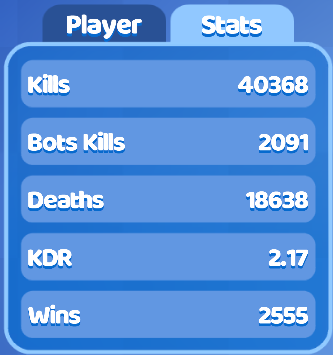
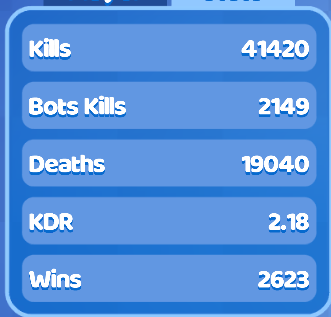
Added K1ittens. Updated ProMaster.

diff --git a/index.html b/index.html
@@ -147,11 +147,11 @@
             <div class="number color1">15.</div>
             <div class="box color1"><a href="Images/Screenshots/ProMaster.png" class="lightbox_trigger"><i class="fas fa-camera"></i></a></div>
             <div class="name color1">ProMaster</div>
-            <div class="box color1">2.17</div>
-            <div class="box color1">40,368</div>
-            <div class="box color1">2,091</div>
-            <div class="box color1">18,638</div>
-            <div class="box color1">2,555</div>
+            <div class="box color1">2.18</div>
+            <div class="box color1">40,420</div>
+            <div class="box color1">2,149</div>
+            <div class="box color1">19,040</div>
+            <div class="box color1">2,623</div>
 
             <div class="number color2">16.</div>
             <div class="box color2"><a href="Images/Screenshots/TomCruise.png" class="lightbox_trigger"><i class="fas fa-camera"></i></a></div>
@@ -208,196 +208,205 @@
             <div class="box color1">1,271</div>
 
             <div class="number color2">22.</div>
-            <div class="box color2"><a href="Images/Screenshots/bhol.png" class="lightbox_trigger"><i class="fas fa-camera"></i></a></div>
-            <div class="name color2">bhol</div>
-            <div class="box color2">1.66</div>
-            <div class="box color2">19,412</div>
-            <div class="box color2">1,784</div>
-            <div class="box color2">11,716</div>
-            <div class="box color2">1,305</div>
+            <div class="box color2"><a href="Images/Screenshots/K1ittens.png" class="lightbox_trigger"><i class="fas fa-camera"></i></a></div>
+            <div class="name color2">K1ittens</div>
+            <div class="box color2">1.67</div>
+            <div class="box color2">9,491</div>
+            <div class="box color2">803</div>
+            <div class="box color2">5,699</div>
+            <div class="box color2">519</div>
 
             <div class="number color1">23.</div>
-            <div class="box color1"><a href="Images/Screenshots/NONAME.png" class="lightbox_trigger"><i class="fas fa-camera"></i></a></div>
-            <div class="name color1">NONAME</div>
-            <div class="box color1">1.65</div>
-            <div class="box color1">3,413</div>
-            <div class="box color1">276</div>
-            <div class="box color1">2,064</div>
-            <div class="box color1">246</div>
+            <div class="box color1"><a href="Images/Screenshots/bhol.png" class="lightbox_trigger"><i class="fas fa-camera"></i></a></div>
+            <div class="name color1">bhol</div>
+            <div class="box color1">1.66</div>
+            <div class="box color1">19,412</div>
+            <div class="box color1">1,784</div>
+            <div class="box color1">11,716</div>
+            <div class="box color1">1,305</div>
 
             <div class="number color2">24.</div>
-            <div class="box color2"><a href="Images/Screenshots/BAM'erica.png" class="lightbox_trigger"><i class="fas fa-camera"></i></a></div>
-            <div class="name color2">BAM'erica</div>
-            <div class="box color2">1.64</div>
-            <div class="box color2">10,000</div>
-            <div class="box color2">560</div>
-            <div class="box color2">6,111</div>
-            <div class="box color2">252</div>
+            <div class="box color2"><a href="Images/Screenshots/NONAME.png" class="lightbox_trigger"><i class="fas fa-camera"></i></a></div>
+            <div class="name color2">NONAME</div>
+            <div class="box color2">1.65</div>
+            <div class="box color2">3,413</div>
+            <div class="box color2">276</div>
+            <div class="box color2">2,064</div>
+            <div class="box color2">246</div>
 
             <div class="number color1">25.</div>
-            <div class="box color1"><a href="Images/Screenshots/golu.png" class="lightbox_trigger"><i class="fas fa-camera"></i></a></div>
-            <div class="name color1">golu</div>
-            <div class="box color1">1.63</div>
-            <div class="box color1">22,268</div>
-            <div class="box color1">1,477</div>
-            <div class="box color1">13,637</div>
-            <div class="box color1">1,468</div>
+            <div class="box color1"><a href="Images/Screenshots/BAM'erica.png" class="lightbox_trigger"><i class="fas fa-camera"></i></a></div>
+            <div class="name color1">BAM'erica</div>
+            <div class="box color1">1.64</div>
+            <div class="box color1">10,000</div>
+            <div class="box color1">560</div>
+            <div class="box color1">6,111</div>
+            <div class="box color1">252</div>
 
             <div class="number color2">26.</div>
-            <div class="box color2"><a href="Images/Screenshots/Avikatron.png" class="lightbox_trigger"><i class="fas fa-camera"></i></a></div>
-            <div class="name color2">Avikatron</div>
-            <div class="box color2">1.58</div>
-            <div class="box color2">1,054</div>
-            <div class="box color2">11</div>
-            <div class="box color2">666</div>
-            <div class="box color2">48</div>
+            <div class="box color2"><a href="Images/Screenshots/golu.png" class="lightbox_trigger"><i class="fas fa-camera"></i></a></div>
+            <div class="name color2">golu</div>
+            <div class="box color2">1.63</div>
+            <div class="box color2">22,268</div>
+            <div class="box color2">1,477</div>
+            <div class="box color2">13,637</div>
+            <div class="box color2">1,468</div>
 
             <div class="number color1">27.</div>
-            <div class="box color1"><a href="Images/Screenshots/Drew.png" class="lightbox_trigger"><i class="fas fa-camera"></i></a></div>
-            <div class="name color1">Drew</div>
-            <div class="box color1">1.57</div>
-            <div class="box color1">9,234</div>
-            <div class="box color1">430</div>
-            <div class="box color1">5,891</div>
-            <div class="box color1">549</div>
+            <div class="box color1"><a href="Images/Screenshots/Avikatron.png" class="lightbox_trigger"><i class="fas fa-camera"></i></a></div>
+            <div class="name color1">Avikatron</div>
+            <div class="box color1">1.58</div>
+            <div class="box color1">1,054</div>
+            <div class="box color1">11</div>
+            <div class="box color1">666</div>
+            <div class="box color1">48</div>
 
             <div class="number color2">28.</div>
-            <div class="box color2"><a href="Images/Screenshots/seanysean.png" class="lightbox_trigger"><i class="fas fa-camera"></i></a></div>
-            <div class="name color2">seanysean</div>
-            <div class="box color2">1.55</div>
-            <div class="box color2">14,977</div>
-            <div class="box color2">489</div>
-            <div class="box color2">9,673</div>
-            <div class="box color2">746</div>
+            <div class="box color2"><a href="Images/Screenshots/Drew.png" class="lightbox_trigger"><i class="fas fa-camera"></i></a></div>
+            <div class="name color2">Drew</div>
+            <div class="box color2">1.57</div>
+            <div class="box color2">9,234</div>
+            <div class="box color2">430</div>
+            <div class="box color2">5,891</div>
+            <div class="box color2">549</div>
 
             <div class="number color1">29.</div>
-            <div class="box color1"><a href="Images/Screenshots/Junini.png" class="lightbox_trigger"><i class="fas fa-camera"></i></a></div>
-            <div class="name color1">Junini</div>
-            <div class="box color1">1.48</div>
-            <div class="box color1">24,166</div>
-            <div class="box color1">4,675</div>
-            <div class="box color1">16,366</div>
-            <div class="box color1">801</div>
+            <div class="box color1"><a href="Images/Screenshots/seanysean.png" class="lightbox_trigger"><i class="fas fa-camera"></i></a></div>
+            <div class="name color1">seanysean</div>
+            <div class="box color1">1.55</div>
+            <div class="box color1">14,977</div>
+            <div class="box color1">489</div>
+            <div class="box color1">9,673</div>
+            <div class="box color1">746</div>
 
             <div class="number color2">30.</div>
-            <div class="box color2"><a href="Images/Screenshots/SombreroCat1.png" class="lightbox_trigger"><i class="fas fa-camera"></i></a></div>
-            <div class="name color2">SombreroCat1</div>
+            <div class="box color2"><a href="Images/Screenshots/Junini.png" class="lightbox_trigger"><i class="fas fa-camera"></i></a></div>
+            <div class="name color2">Junini</div>
             <div class="box color2">1.48</div>
-            <div class="box color2">3,402</div>
-            <div class="box color2">567</div>
-            <div class="box color2">2,298</div>
-            <div class="box color2">243</div>
+            <div class="box color2">24,166</div>
+            <div class="box color2">4,675</div>
+            <div class="box color2">16,366</div>
+            <div class="box color2">801</div>
 
             <div class="number color1">31.</div>
-            <div class="box color1"><a href="Images/Screenshots/Manush.png" class="lightbox_trigger"><i class="fas fa-camera"></i></a></div>
-            <div class="name color1">Manush</div>
-            <div class="box color1">1.44</div>
-            <div class="box color1">1,655</div>
-            <div class="box color1">6</div>
-            <div class="box color1">1,147</div>
-            <div class="box color1">45</div>
+            <div class="box color1"><a href="Images/Screenshots/SombreroCat1.png" class="lightbox_trigger"><i class="fas fa-camera"></i></a></div>
+            <div class="name color1">SombreroCat1</div>
+            <div class="box color1">1.48</div>
+            <div class="box color1">3,402</div>
+            <div class="box color1">567</div>
+            <div class="box color1">2,298</div>
+            <div class="box color1">243</div>
 
             <div class="number color2">32.</div>
-            <div class="box color2"><a href="Images/Screenshots/Prince of Darkness.png" class="lightbox_trigger"><i class="fas fa-camera"></i></a></div>
-            <div class="name color2">Prince of Darkness</div>
-            <div class="box color2">1.42</div>
-            <div class="box color2">2,612</div>
-            <div class="box color2">231</div>
-            <div class="box color2">1,835</div>
-            <div class="box color2">104</div>
+            <div class="box color2"><a href="Images/Screenshots/Manush.png" class="lightbox_trigger"><i class="fas fa-camera"></i></a></div>
+            <div class="name color2">Manush</div>
+            <div class="box color2">1.44</div>
+            <div class="box color2">1,655</div>
+            <div class="box color2">6</div>
+            <div class="box color2">1,147</div>
+            <div class="box color2">45</div>
 
             <div class="number color1">33.</div>
-            <div class="box color1"><a href="Images/Screenshots/IcyPro.png" class="lightbox_trigger"><i class="fas fa-camera"></i></a></div>
-            <div class="name color1">IcyPro</div>
-            <div class="box color1">1.31</div>
-            <div class="box color1">14,975</div>
-            <div class="box color1">997</div>
-            <div class="box color1">11,404</div>
-            <div class="box color1">922</div>
+            <div class="box color1"><a href="Images/Screenshots/Prince of Darkness.png" class="lightbox_trigger"><i class="fas fa-camera"></i></a></div>
+            <div class="name color1">Prince of Darkness</div>
+            <div class="box color1">1.42</div>
+            <div class="box color1">2,612</div>
+            <div class="box color1">231</div>
+            <div class="box color1">1,835</div>
+            <div class="box color1">104</div>
 
             <div class="number color2">34.</div>
-            <div class="box color2"><a href="Images/Screenshots/ZePiggman.png" class="lightbox_trigger"><i class="fas fa-camera"></i></a></div>
-            <div class="name color2">ZePiggman</div>
+            <div class="box color2"><a href="Images/Screenshots/IcyPro.png" class="lightbox_trigger"><i class="fas fa-camera"></i></a></div>
+            <div class="name color2">IcyPro</div>
             <div class="box color2">1.31</div>
-            <div class="box color2">4,880</div>
-            <div class="box color2">110</div>
-            <div class="box color2">3,726</div>
-            <div class="box color2">256</div>
+            <div class="box color2">14,975</div>
+            <div class="box color2">997</div>
+            <div class="box color2">11,404</div>
+            <div class="box color2">922</div>
 
             <div class="number color1">35.</div>
-            <div class="box color1"><a href="Images/Screenshots/KI123NG.png" class="lightbox_trigger"><i class="fas fa-camera"></i></a></div>
-            <div class="name color1">KI123NG</div>
-            <div class="box color1">1.30</div>
-            <div class="box color1">4,894</div>
-            <div class="box color1">118</div>
-            <div class="box color1">3,765</div>
-            <div class="box color1">217</div>
+            <div class="box color1"><a href="Images/Screenshots/ZePiggman.png" class="lightbox_trigger"><i class="fas fa-camera"></i></a></div>
+            <div class="name color1">ZePiggman</div>
+            <div class="box color1">1.31</div>
+            <div class="box color1">4,880</div>
+            <div class="box color1">110</div>
+            <div class="box color1">3,726</div>
+            <div class="box color1">256</div>
 
             <div class="number color2">36.</div>
-            <div class="box color2"><a href="Images/Screenshots/Supremo.png" class="lightbox_trigger"><i class="fas fa-camera"></i></a></div>
-            <div class="name color2">Supremo</div>
-            <div class="box color2">1.22</div>
-            <div class="box color2">6,464</div>
-            <div class="box color2">784</div>
-            <div class="box color2">5,316</div>
-            <div class="box color2">451</div>
+            <div class="box color2"><a href="Images/Screenshots/KI123NG.png" class="lightbox_trigger"><i class="fas fa-camera"></i></a></div>
+            <div class="name color2">KI123NG</div>
+            <div class="box color2">1.30</div>
+            <div class="box color2">4,894</div>
+            <div class="box color2">118</div>
+            <div class="box color2">3,765</div>
+            <div class="box color2">217</div>
 
             <div class="number color1">37.</div>
-            <div class="box color1"><a href="Images/Screenshots/Shamrock Pig.png" class="lightbox_trigger"><i class="fas fa-camera"></i></a></div>
-            <div class="name color1">Shamrock Pig</div>
-            <div class="box color1">1.17</div>
-            <div class="box color1">2,417</div>
-            <div class="box color1">170</div>
-            <div class="box color1">2,066</div>
-            <div class="box color1">124</div>
+            <div class="box color1"><a href="Images/Screenshots/Supremo.png" class="lightbox_trigger"><i class="fas fa-camera"></i></a></div>
+            <div class="name color1">Supremo</div>
+            <div class="box color1">1.22</div>
+            <div class="box color1">6,464</div>
+            <div class="box color1">784</div>
+            <div class="box color1">5,316</div>
+            <div class="box color1">451</div>
 
             <div class="number color2">38.</div>
-            <div class="box color2"><a href="Images/Screenshots/Sub2PewDiePie.png" class="lightbox_trigger"><i class="fas fa-camera"></i></a></div>
-            <div class="name color2">Sub2PewDiePie</div>
-            <div class="box color2">1.15</div>
-            <div class="box color2">1,642</div>
-            <div class="box color2">74</div>
-            <div class="box color2">1,422</div>
-            <div class="box color2">53</div>
+            <div class="box color2"><a href="Images/Screenshots/Shamrock Pig.png" class="lightbox_trigger"><i class="fas fa-camera"></i></a></div>
+            <div class="name color2">Shamrock Pig</div>
+            <div class="box color2">1.17</div>
+            <div class="box color2">2,417</div>
+            <div class="box color2">170</div>
+            <div class="box color2">2,066</div>
+            <div class="box color2">124</div>
 
             <div class="number color1">39.</div>
-            <div class="box color1"><a href="Images/Screenshots/Victory Valtryek.png" class="lightbox_trigger"><i class="fas fa-camera"></i></a></div>
-            <div class="name color1">Victory Valtryek</div>
-            <div class="box color1">1.14</div>
-            <div class="box color1">1,946</div>
-            <div class="box color1">257</div>
-            <div class="box color1">1,709</div>
-            <div class="box color1">89</div>
+            <div class="box color1"><a href="Images/Screenshots/Sub2PewDiePie.png" class="lightbox_trigger"><i class="fas fa-camera"></i></a></div>
+            <div class="name color1">Sub2PewDiePie</div>
+            <div class="box color1">1.15</div>
+            <div class="box color1">1,642</div>
+            <div class="box color1">74</div>
+            <div class="box color1">1,422</div>
+            <div class="box color1">53</div>
 
             <div class="number color2">40.</div>
-            <div class="box color2"><a href="Images/Screenshots/jason.png" class="lightbox_trigger"><i class="fas fa-camera"></i></a></div>
-            <div class="name color2">jason</div>
-            <div class="box color2">1.13</div>
-            <div class="box color2">1,002</div>
-            <div class="box color2">37</div>
-            <div class="box color2">884</div>
-            <div class="box color2">44</div>
+            <div class="box color2"><a href="Images/Screenshots/Victory Valtryek.png" class="lightbox_trigger"><i class="fas fa-camera"></i></a></div>
+            <div class="name color2">Victory Valtryek</div>
+            <div class="box color2">1.14</div>
+            <div class="box color2">1,946</div>
+            <div class="box color2">257</div>
+            <div class="box color2">1,709</div>
+            <div class="box color2">89</div>
 
             <div class="number color1">41.</div>
-            <div class="box color1"><a href="Images/Screenshots/2Fast2Furious.jpg" class="lightbox_trigger"><i class="fas fa-camera"></i></a></div>
-            <div class="name color1">2Fast2Furious</div>
-            <div class="box color1">1.08</div>
-            <div class="box color1">1,754</div>
-            <div class="box color1">77</div>
-            <div class="box color1">1,617</div>
-            <div class="box color1">94</div>
+            <div class="box color1"><a href="Images/Screenshots/jason.png" class="lightbox_trigger"><i class="fas fa-camera"></i></a></div>
+            <div class="name color1">jason</div>
+            <div class="box color1">1.13</div>
+            <div class="box color1">1,002</div>
+            <div class="box color1">37</div>
+            <div class="box color1">884</div>
+            <div class="box color1">44</div>
 
             <div class="number color2">42.</div>
-            <div class="box color2"><a href="Images/Screenshots/MichoKing.png" class="lightbox_trigger"><i class="fas fa-camera"></i></a></div>
-            <div class="name color2">MichoKing</div>
-            <div class="box color2">1.06</div>
-            <div class="box color2">1,000</div>
-            <div class="box color2">17</div>
-            <div class="box color2">946</div>
-            <div class="box color2">42</div>
+            <div class="box color2"><a href="Images/Screenshots/2Fast2Furious.jpg" class="lightbox_trigger"><i class="fas fa-camera"></i></a></div>
+            <div class="name color2">2Fast2Furious</div>
+            <div class="box color2">1.08</div>
+            <div class="box color2">1,754</div>
+            <div class="box color2">77</div>
+            <div class="box color2">1,617</div>
+            <div class="box color2">94</div>
+
+            <div class="number color1">43.</div>
+            <div class="box color1"><a href="Images/Screenshots/MichoKing.png" class="lightbox_trigger"><i class="fas fa-camera"></i></a></div>
+            <div class="name color1">MichoKing</div>
+            <div class="box color1">1.06</div>
+            <div class="box color1">1,000</div>
+            <div class="box color1">17</div>
+            <div class="box color1">946</div>
+            <div class="box color1">42</div>
         </div>
 
-        <div id="update">Last updated: 4/11/2021</div>
+        <div id="update">Last updated: 4/16/2021</div>
 
         <p>To be included in the leaderboard, or to update your stats, please DM haedcase 
             <a href="http://discordapp.com/users/696072046374813776"><i class="fab fa-discord" id="discordLink"></i></a> 
